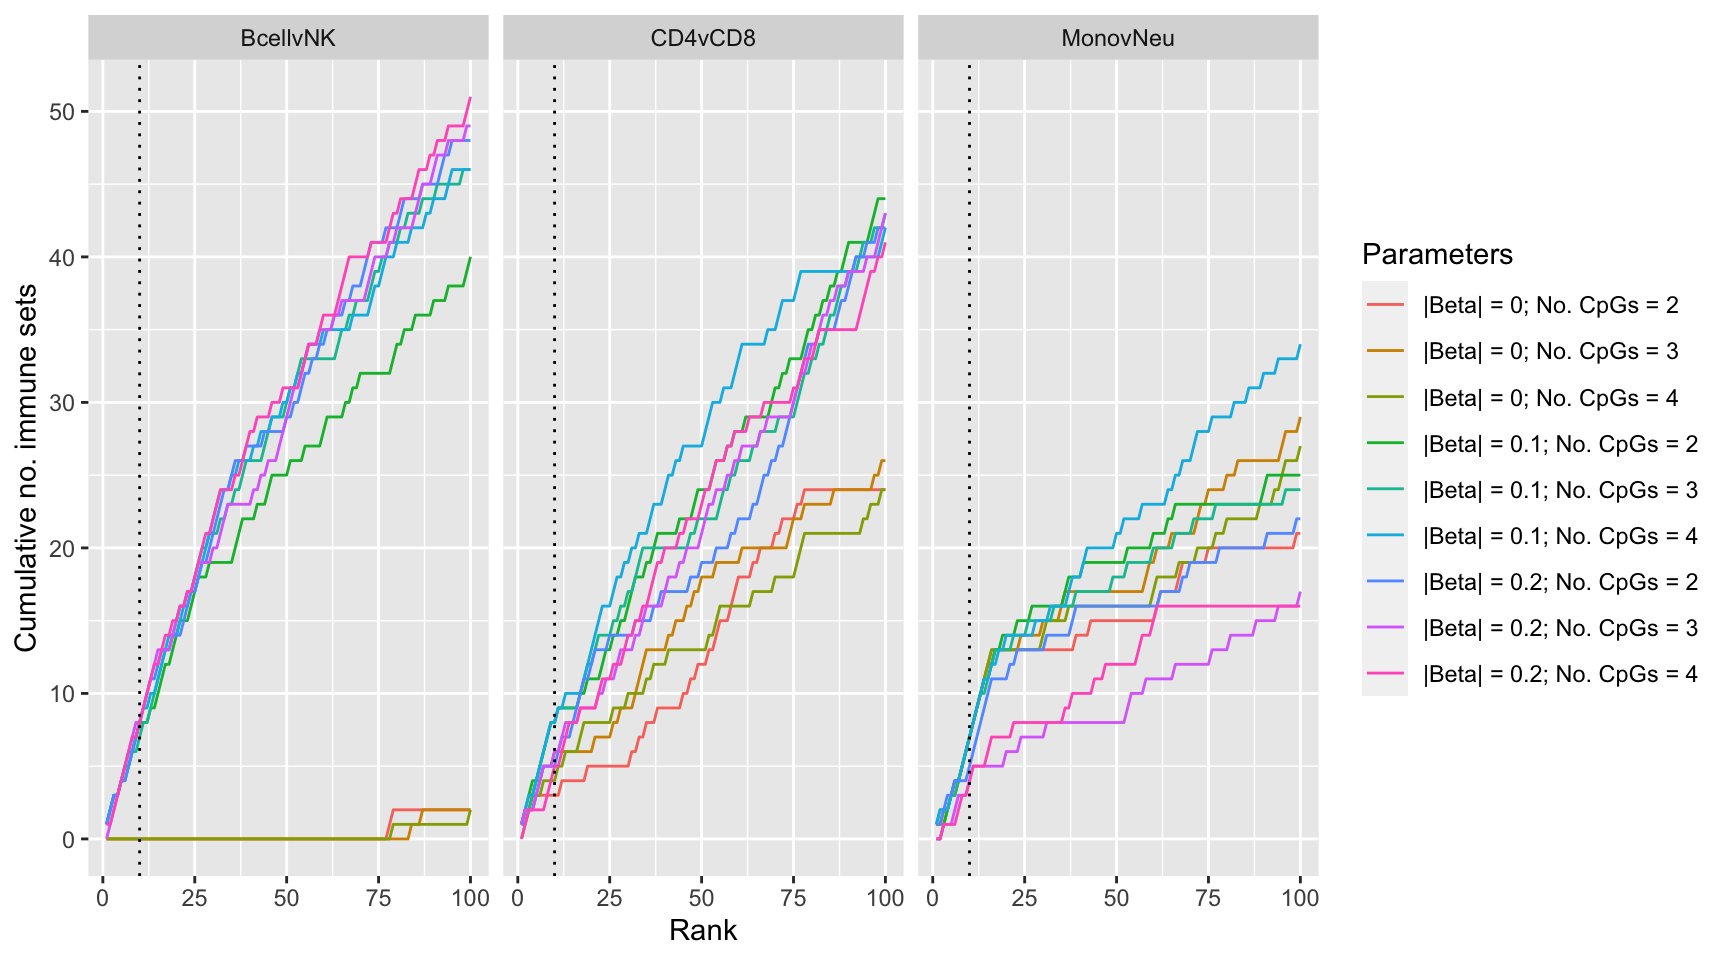
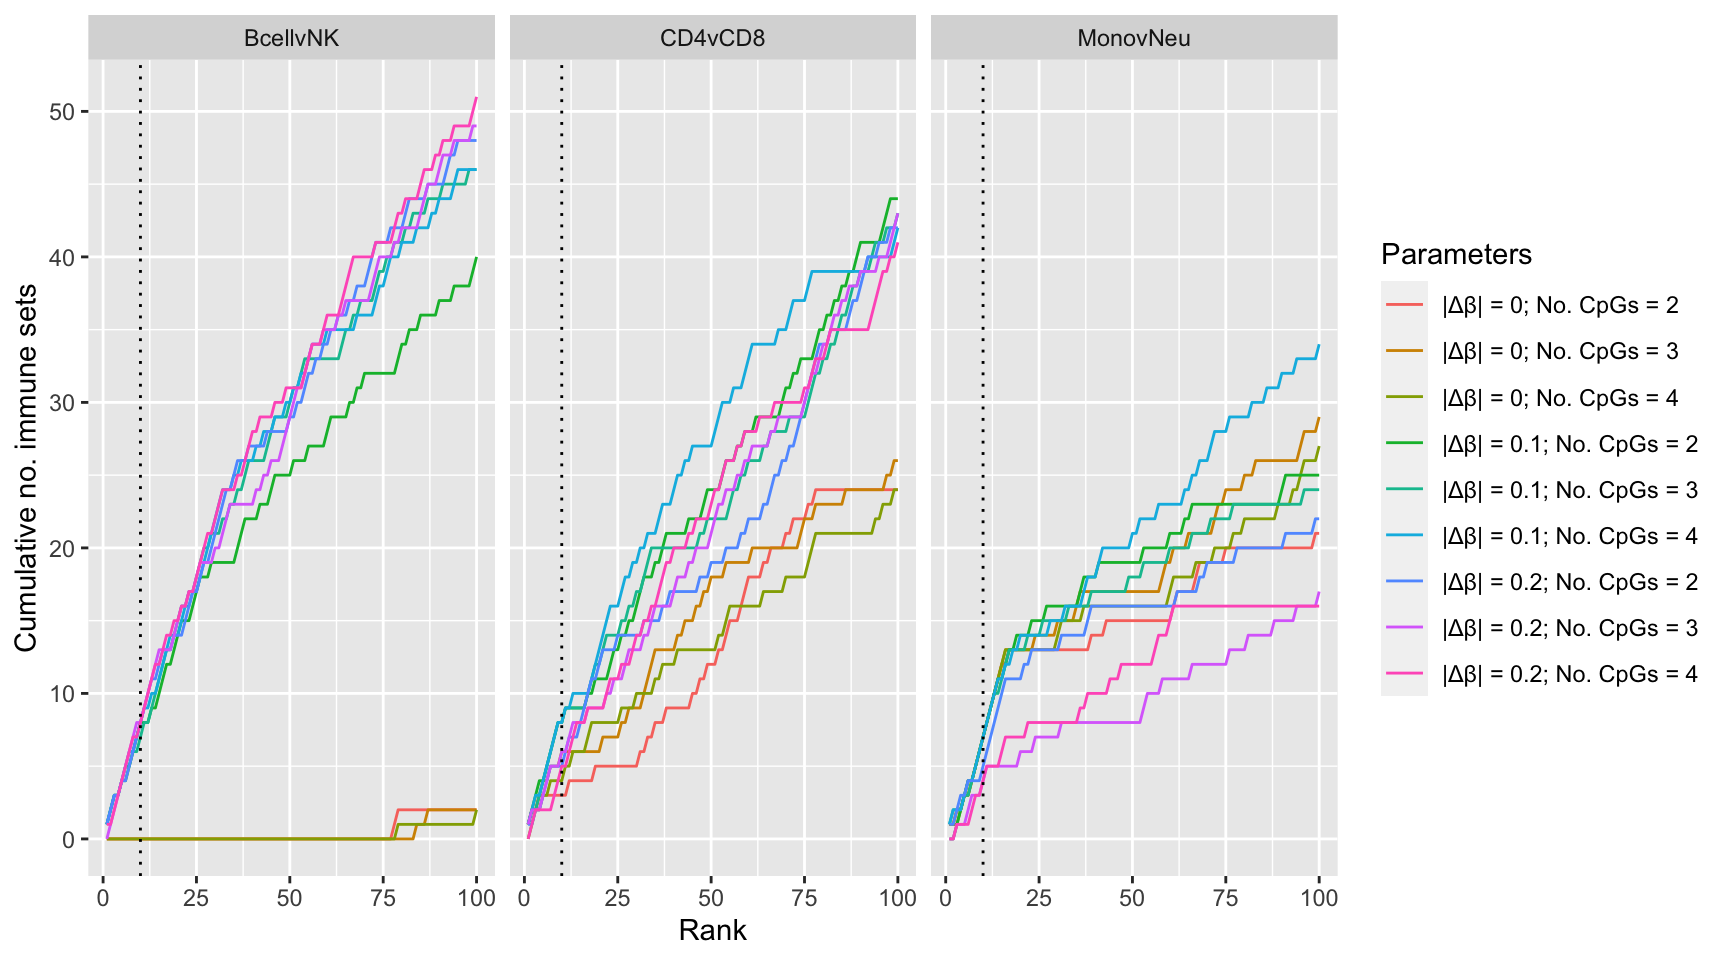
Build site.

diff --git a/docs/07_regionAnalysis.html b/docs/07_regionAnalysis.html
@@ -11,7 +11,7 @@
 
 <meta name="author" content="Jovana Maksimovic, Alicia Oshlack and Belinda Phipson" />
 
-<meta name="date" content="2020-08-21" />
+<meta name="date" content="2020-08-25" />
 
 <title>Gene set testing for Illumina HumanMethylation Arrays</title>
 
@@ -389,7 +389,7 @@ div.tocify {
 <h1 class="title toc-ignore">Gene set testing for Illumina HumanMethylation Arrays</h1>
 <h3 class="subtitle">Evaluating the functionality and performance of GOregion</h3>
 <h4 class="author">Jovana Maksimovic, Alicia Oshlack and Belinda Phipson</h4>
-<h4 class="date">August 21, 2020</h4>
+<h4 class="date">August 25, 2020</h4>
 
 </div>
 
@@ -414,7 +414,7 @@ div.tocify {
 <div class="tab-content">
 <div id="summary" class="tab-pane fade in active">
 <p>
-<strong>Last updated:</strong> 2020-08-21
+<strong>Last updated:</strong> 2020-08-25
 </p>
 <p>
 <strong>Checks:</strong> <span class="glyphicon glyphicon-ok text-success" aria-hidden="true"></span> 7 <span class="glyphicon glyphicon-exclamation-sign text-danger" aria-hidden="true"></span> 0
@@ -505,16 +505,16 @@ This reproducible <a href="http://rmarkdown.rstudio.com">R Markdown</a> analysis
 <div class="panel panel-default">
 <div class="panel-heading">
 <p class="panel-title">
-<a data-toggle="collapse" data-parent="#workflowr-checks" href="#strongRepositoryversionstrongahrefhttpsgithubcomOshlackmethylgenesettestingtreee3b14f49ab36cc724f62903501563603902b2154targetblanke3b14f4a"> <span class="glyphicon glyphicon-ok text-success" aria-hidden="true"></span> <strong>Repository version:</strong> <a href="https://github.com/Oshlack/methyl-geneset-testing/tree/e3b14f49ab36cc724f62903501563603902b2154" target="_blank">e3b14f4</a> </a>
+<a data-toggle="collapse" data-parent="#workflowr-checks" href="#strongRepositoryversionstrongahrefhttpsgithubcomOshlackmethylgenesettestingtree06990449dd9746bb3357f015ac08892fdcf4e99etargetblank0699044a"> <span class="glyphicon glyphicon-ok text-success" aria-hidden="true"></span> <strong>Repository version:</strong> <a href="https://github.com/Oshlack/methyl-geneset-testing/tree/06990449dd9746bb3357f015ac08892fdcf4e99e" target="_blank">0699044</a> </a>
 </p>
 </div>
[2 lines of base64/hex data omitted]
 <div class="panel-body">
 <p>
 Great! You are using Git for version control. Tracking code development and connecting the code version to the results is critical for reproducibility.
 </p>
 <p>
-The results in this page were generated with repository version <a href="https://github.com/Oshlack/methyl-geneset-testing/tree/e3b14f49ab36cc724f62903501563603902b2154" target="_blank">e3b14f4</a>. See the <em>Past versions</em> tab to see a history of the changes made to the R Markdown and HTML files.
+The results in this page were generated with repository version <a href="https://github.com/Oshlack/methyl-geneset-testing/tree/06990449dd9746bb3357f015ac08892fdcf4e99e" target="_blank">0699044</a>. See the <em>Past versions</em> tab to see a history of the changes made to the R Markdown and HTML files.
 </p>
 <p>
 Note that you need to be careful to ensure that all relevant files for the analysis have been committed to Git prior to generating the results (you can use <code>wflow_publish</code> or <code>wflow_git_commit</code>). workflowr only checks the R Markdown file, but you know if there are other scripts or data files that it depends on. Below is the status of the Git repository when the results were generated:
@@ -611,6 +611,40 @@ Message
 </tr>
 </thead>
 <tbody>
+<tr>
+<td>
+Rmd
+</td>
+<td>
+<a href="https://github.com/Oshlack/methyl-geneset-testing/blob/06990449dd9746bb3357f015ac08892fdcf4e99e/analysis/07_regionAnalysis.Rmd" target="_blank">0699044</a>
+</td>
+<td>
+JovMaksimovic
+</td>
+<td>
+2020-08-25
+</td>
+<td>
+wflow_publish(&quot;analysis/07_regionAnalysis.Rmd&quot;)
+</td>
+</tr>
+<tr>
+<td>
+html
+</td>
+<td>
+<a href="https://rawcdn.githack.com/Oshlack/methyl-geneset-testing/bbf77e1472fab3a70c0e9bb772d27f3ab024920a/docs/07_regionAnalysis.html" target="_blank">bbf77e1</a>
+</td>
+<td>
+JovMaksimovic
+</td>
+<td>
+2020-08-21
+</td>
+<td>
+Build site.
+</td>
+</tr>
 <tr>
 <td>
 Rmd
@@ -2257,7 +2291,7 @@ if(!file.exists(outFile)){
                                        array.type = &quot;EPIC&quot;), 
                               number = Inf)
                 tmp &lt;- rownames_to_column(tmp, var = &quot;GO&quot;)[, c(&quot;GO&quot;, &quot;P.DE&quot;)]
-                tmp$params &lt;- glue(&quot;|\u0394\u03B2| = {j}; #CpGs = {k}&quot;)
+                tmp$params &lt;- glue(&quot;|\u0394\u03B2| = {j}; No. CpGs = {k}&quot;)
                 tmp$contrast &lt;- colnames(cont.matrix)[i]
                 dmrParams &lt;- bind_rows(dmrParams, tmp)
             }
